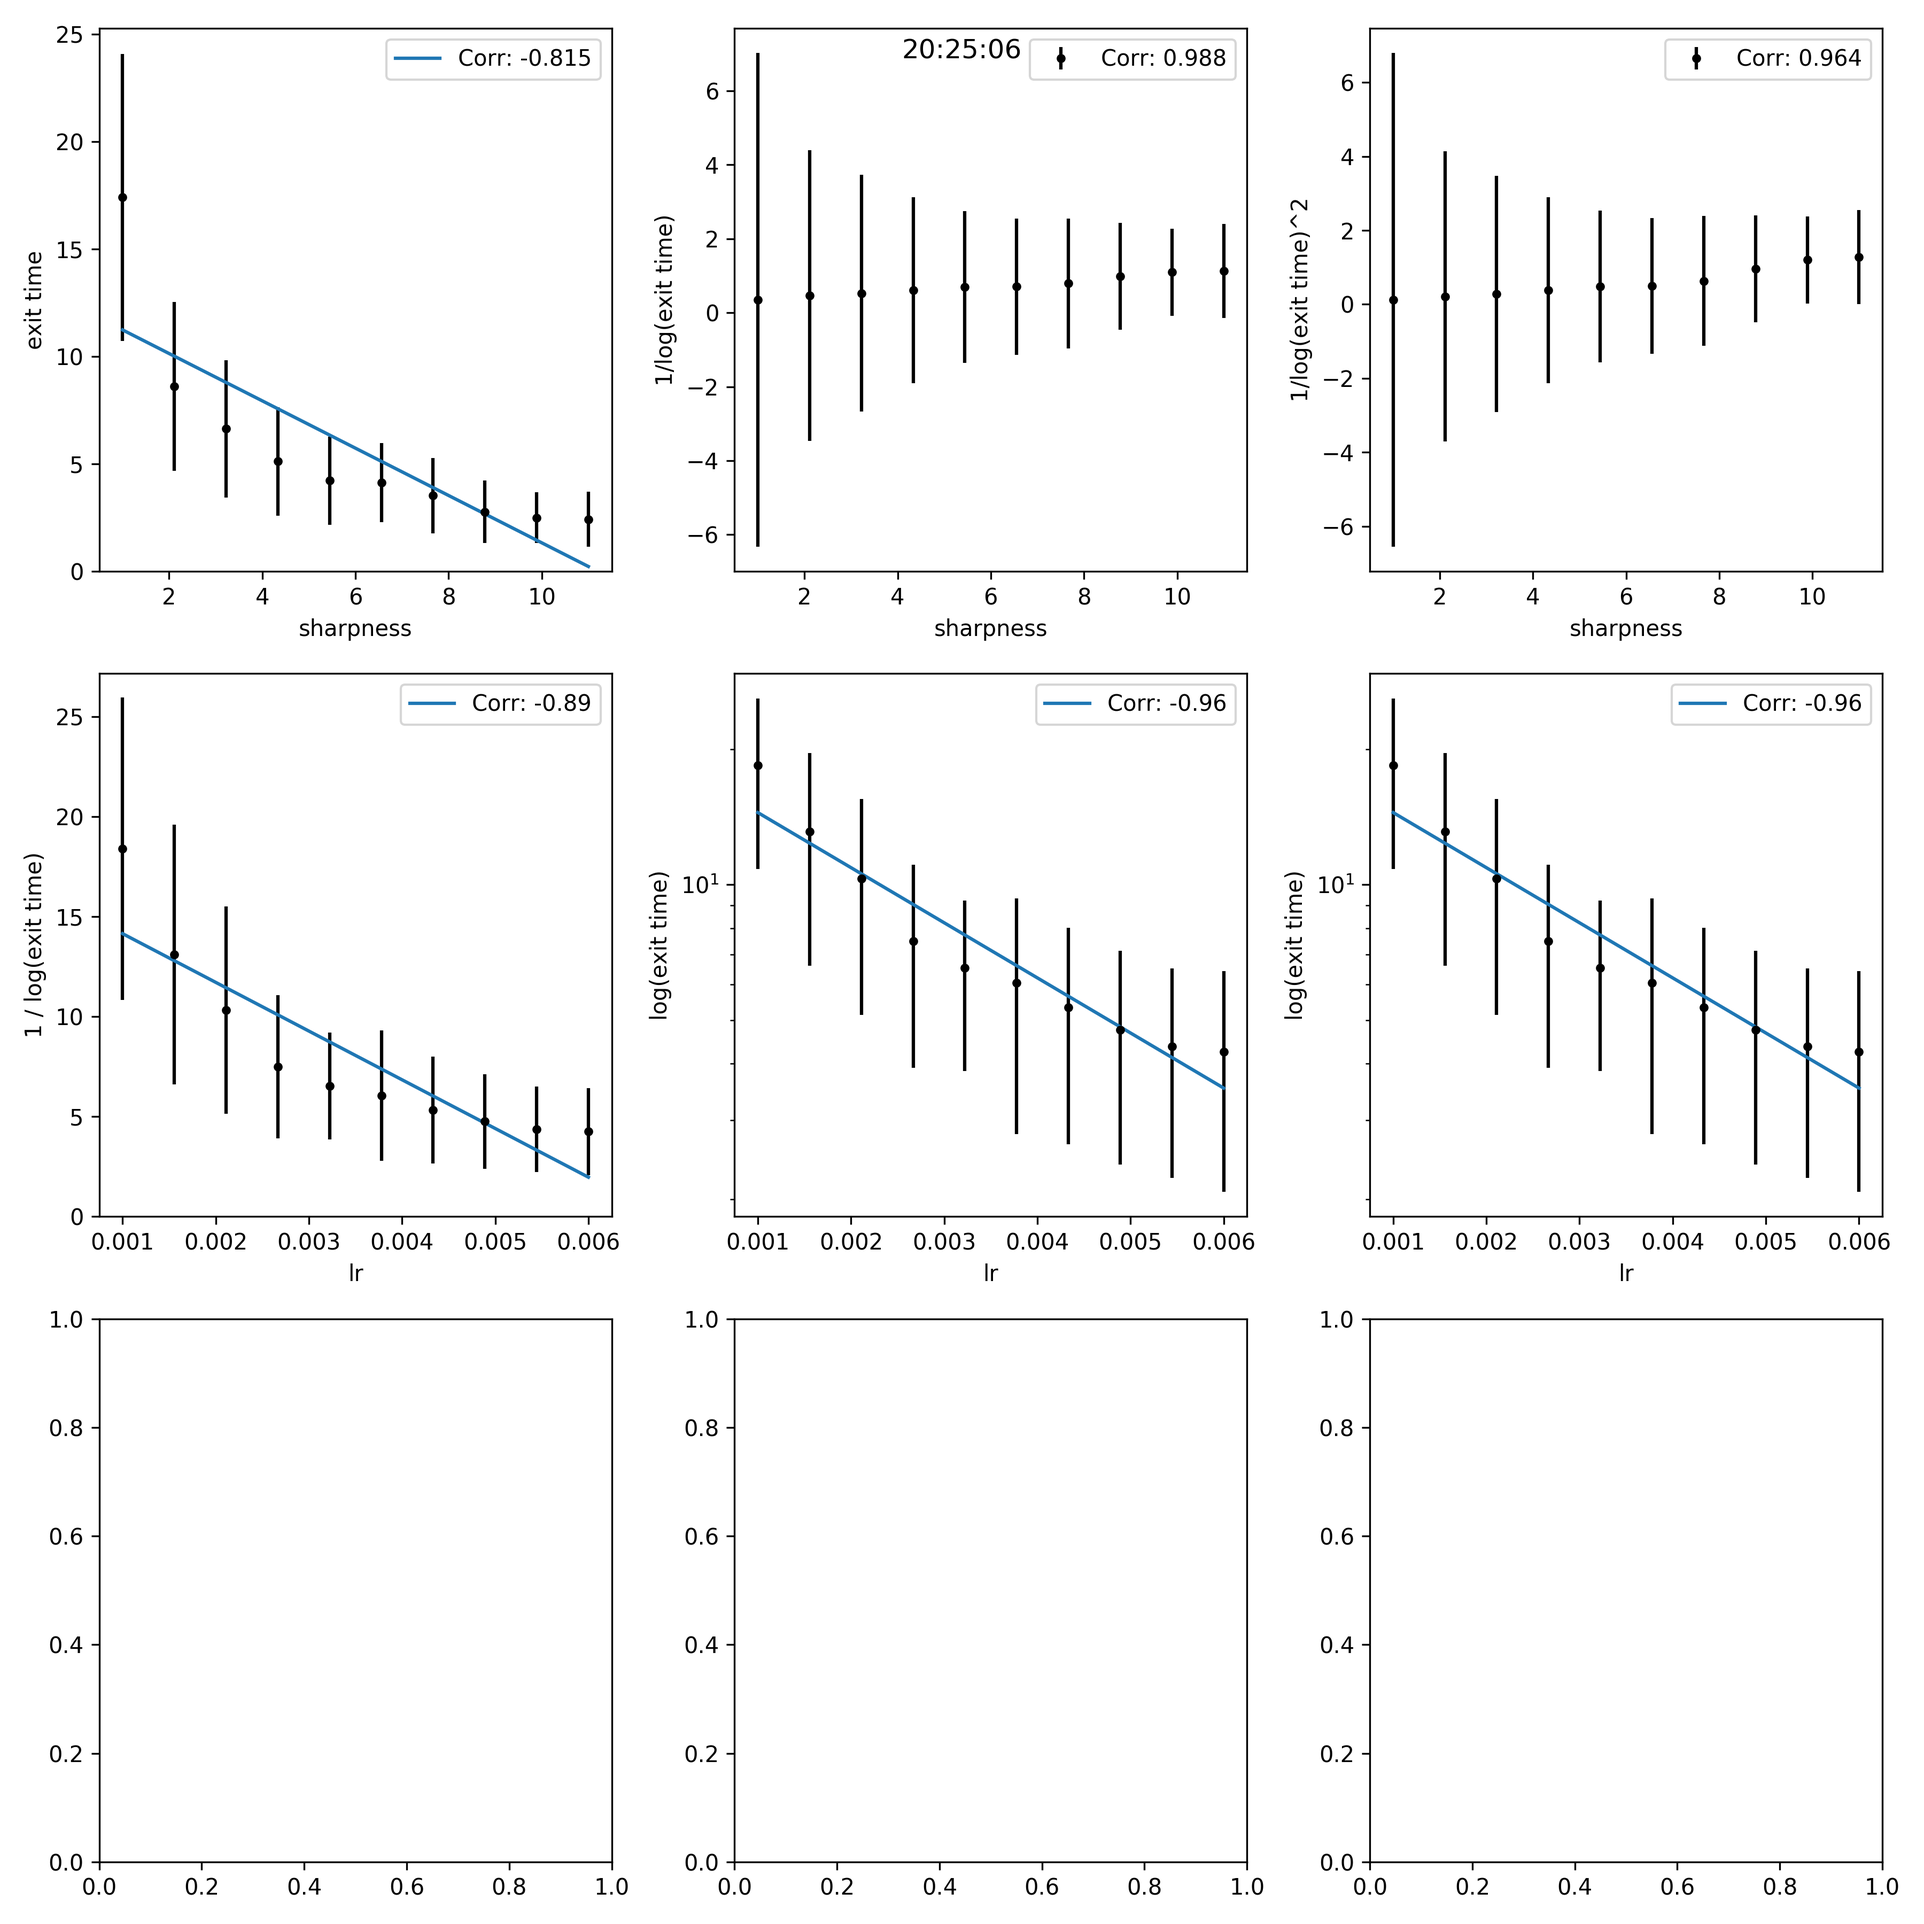
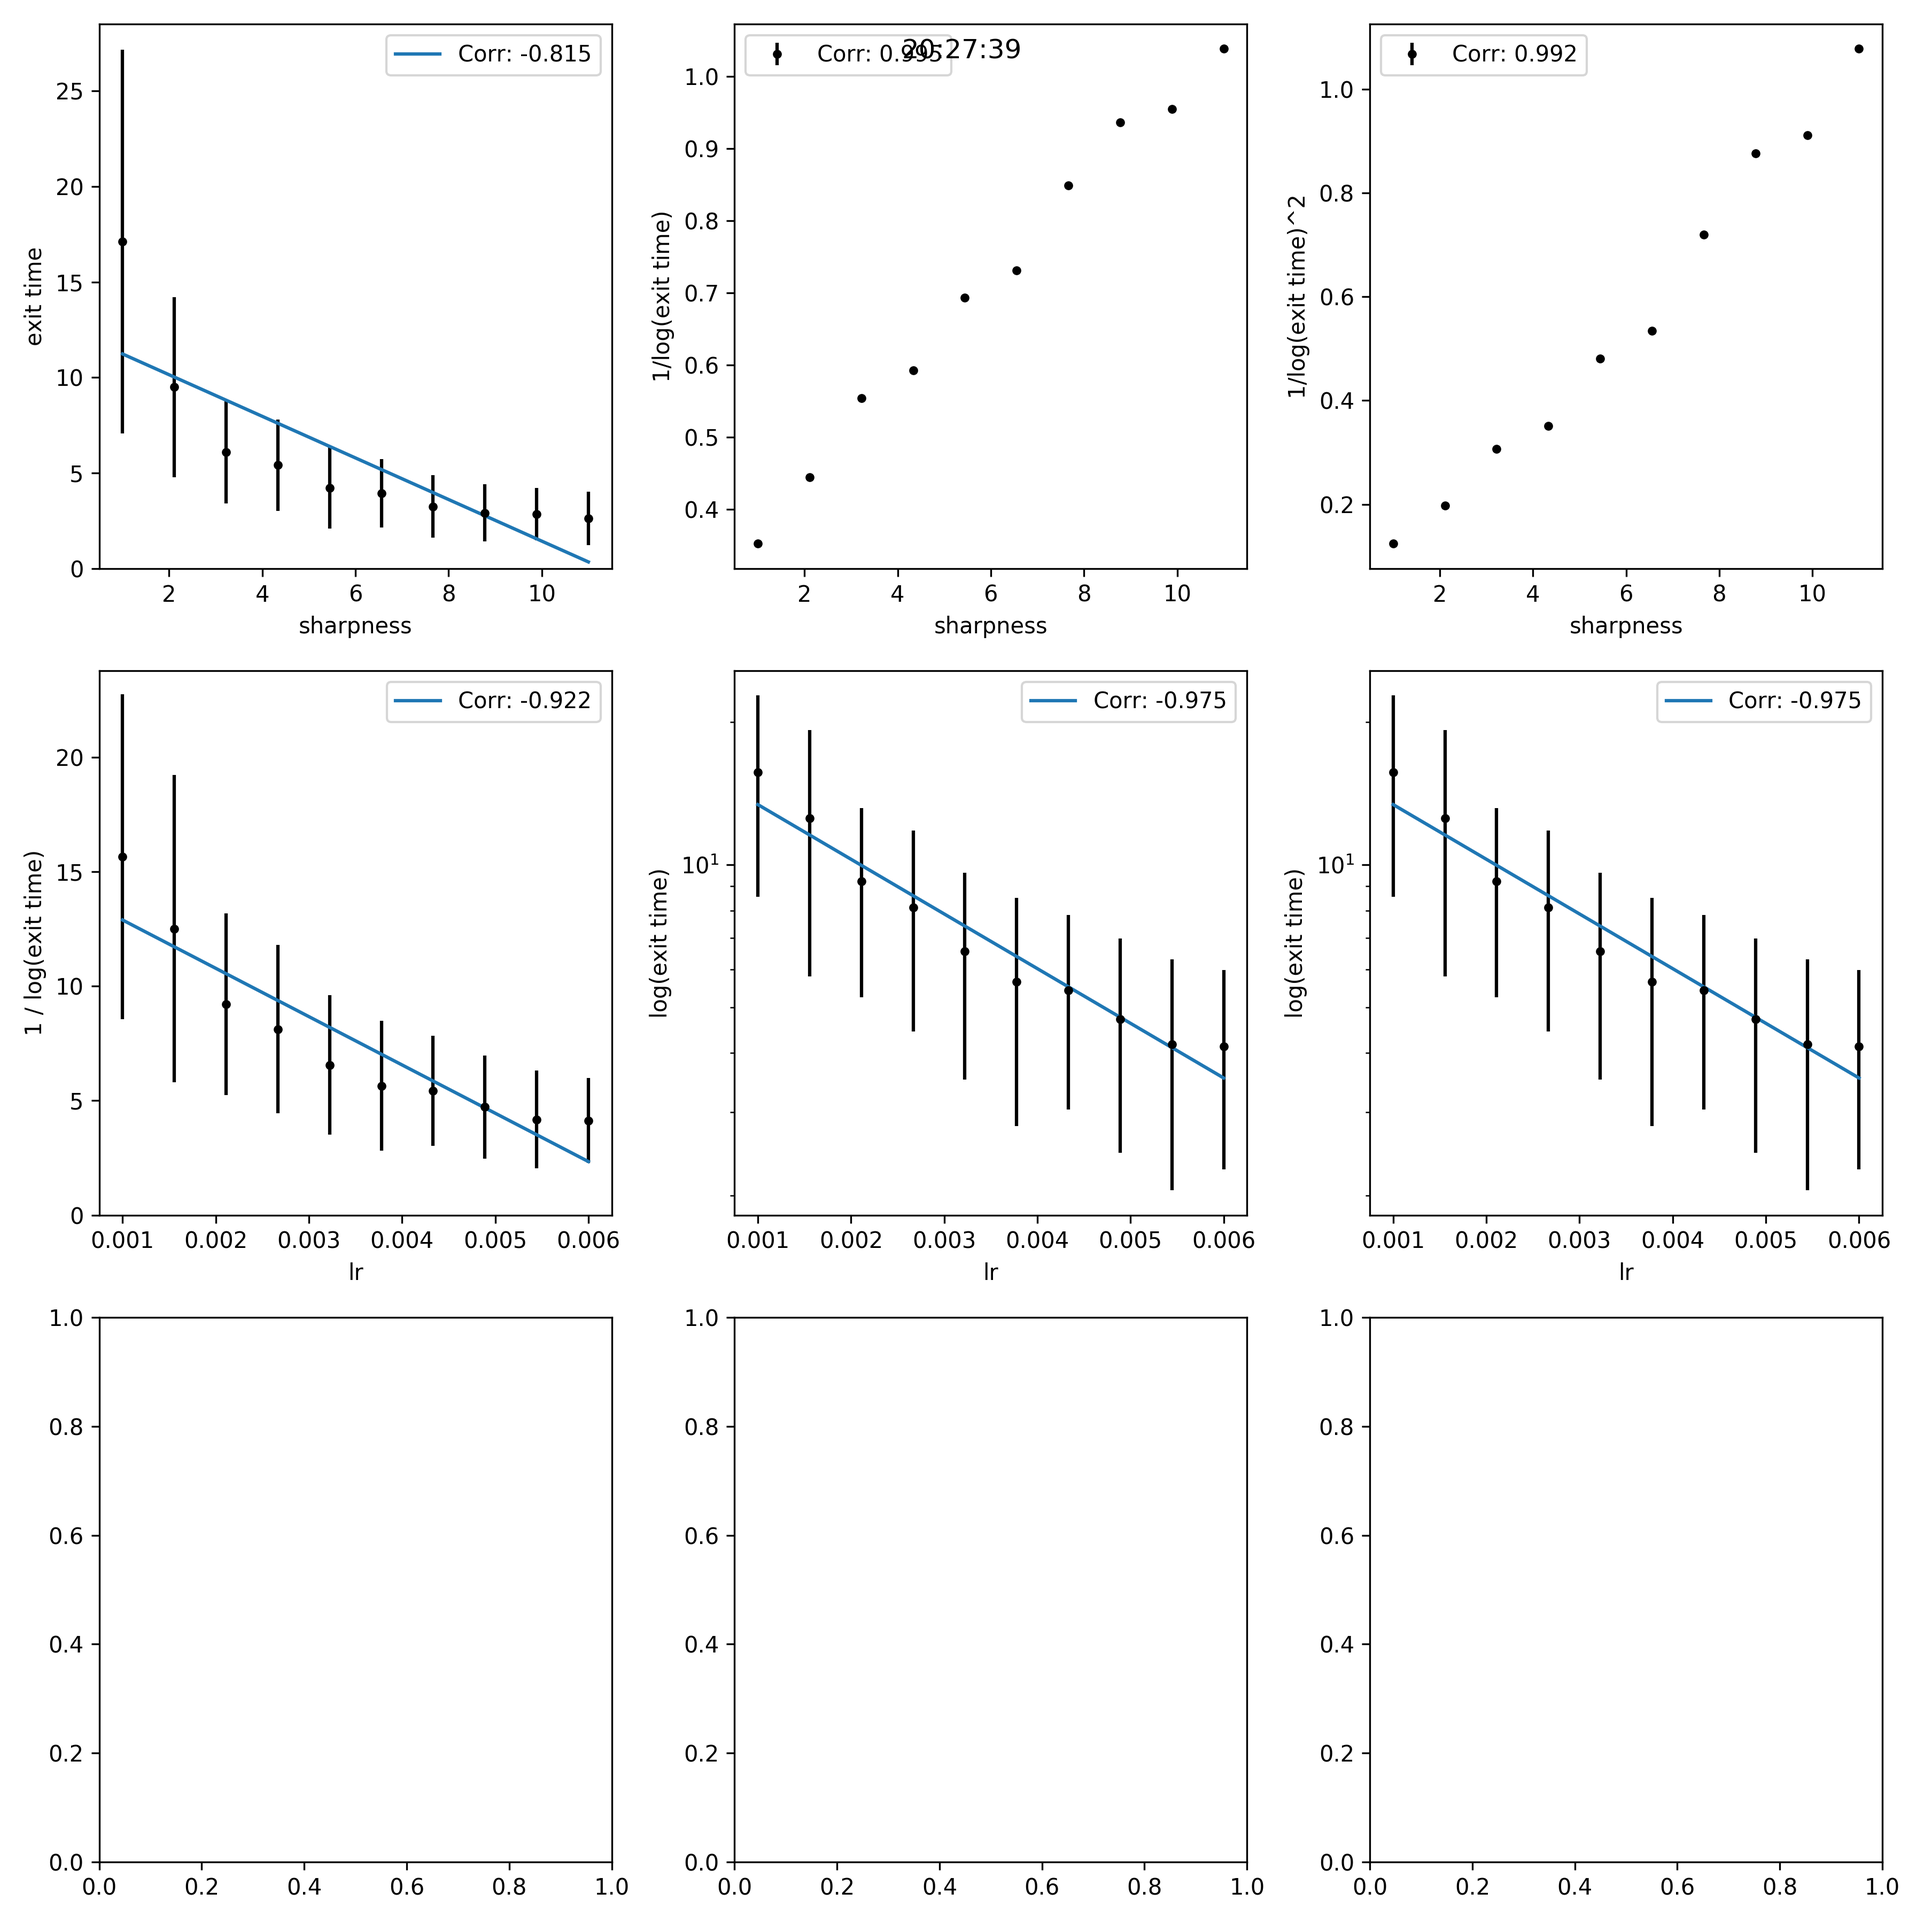
update

diff --git a/exit_time.py b/exit_time.py
@@ -172,7 +172,7 @@ def draw(sharpness_results, lr_results, batch_size_results):
     m_2, c_2 = np.linalg.lstsq(A, y_2, rcond=None)[0]
     ax1[1].set_xlabel("sharpness")
     ax1[1].set_ylabel("1/log(exit time)")
-    ax1[1].errorbar(x_2, y_2, yerr=std, fmt='.k') 
+    ax1[1].errorbar(x_2, y_2, yerr=std*0, fmt='.k') 
     # ax1[1].plot(np.exp(1/x), exp_m*np.exp(1/x) + exp_c)
     # ax1[1].set_xscale("log") 
     ax1[1].legend([f'Corr: {coeff_2:.3g}'])
@@ -184,7 +184,7 @@ def draw(sharpness_results, lr_results, batch_size_results):
     m_3, c_3 = np.linalg.lstsq(A, y_3, rcond=None)[0]
     ax1[2].set_xlabel("sharpness")
     ax1[2].set_ylabel("1/log(exit time)^2")
-    ax1[2].errorbar(x_3, y_3, yerr=std, fmt='.k') 
+    ax1[2].errorbar(x_3, y_3, yerr=std*0, fmt='.k') 
     # ax1[1].plot(np.exp(1/x), exp_m*np.exp(1/x) + exp_c)
     # ax1[2].set_xscale("log") 
     ax1[2].legend([f'Corr: {coeff_3:.3g}'])
